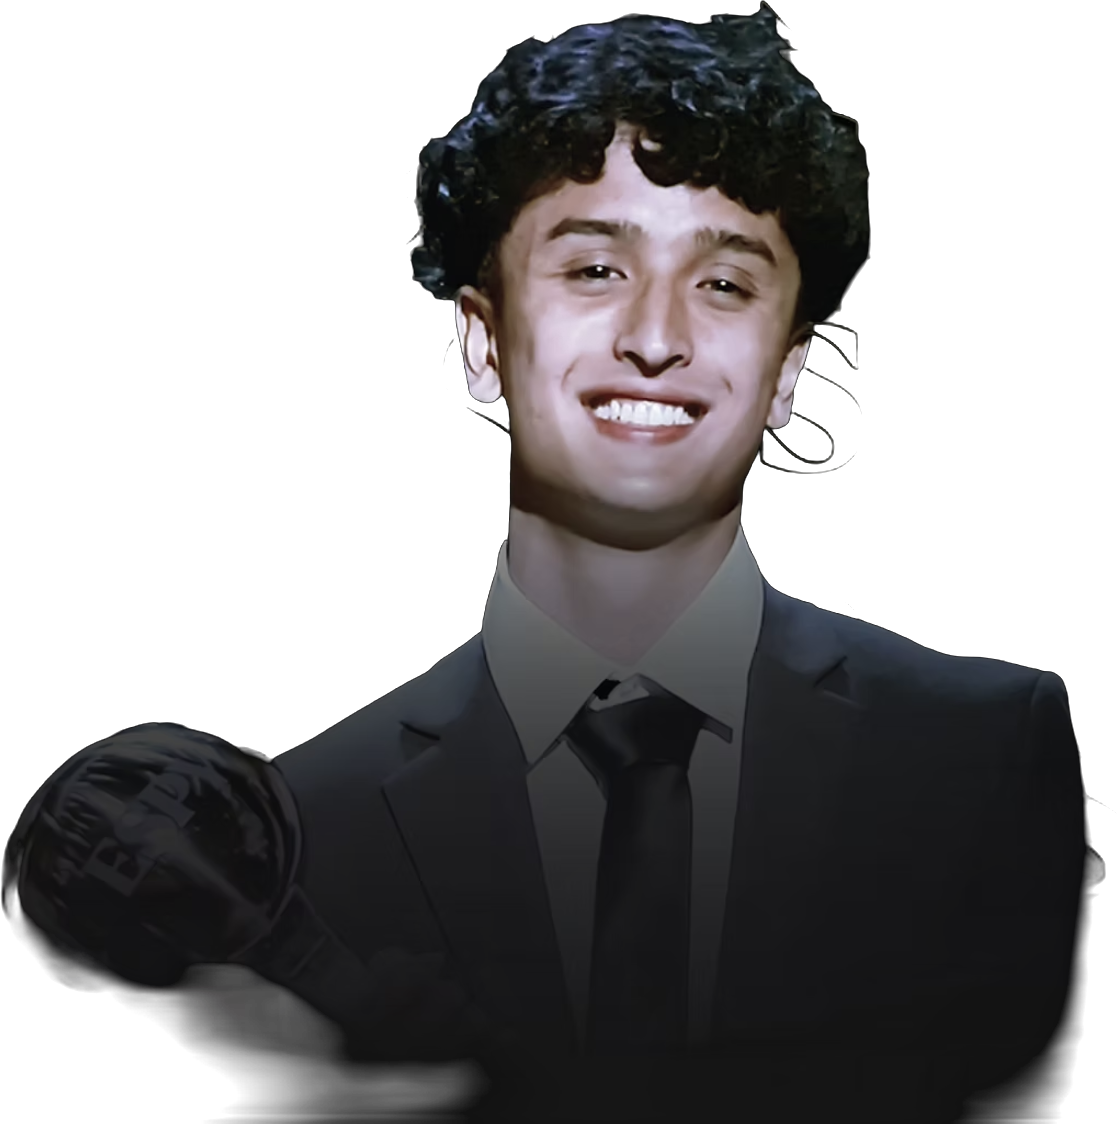
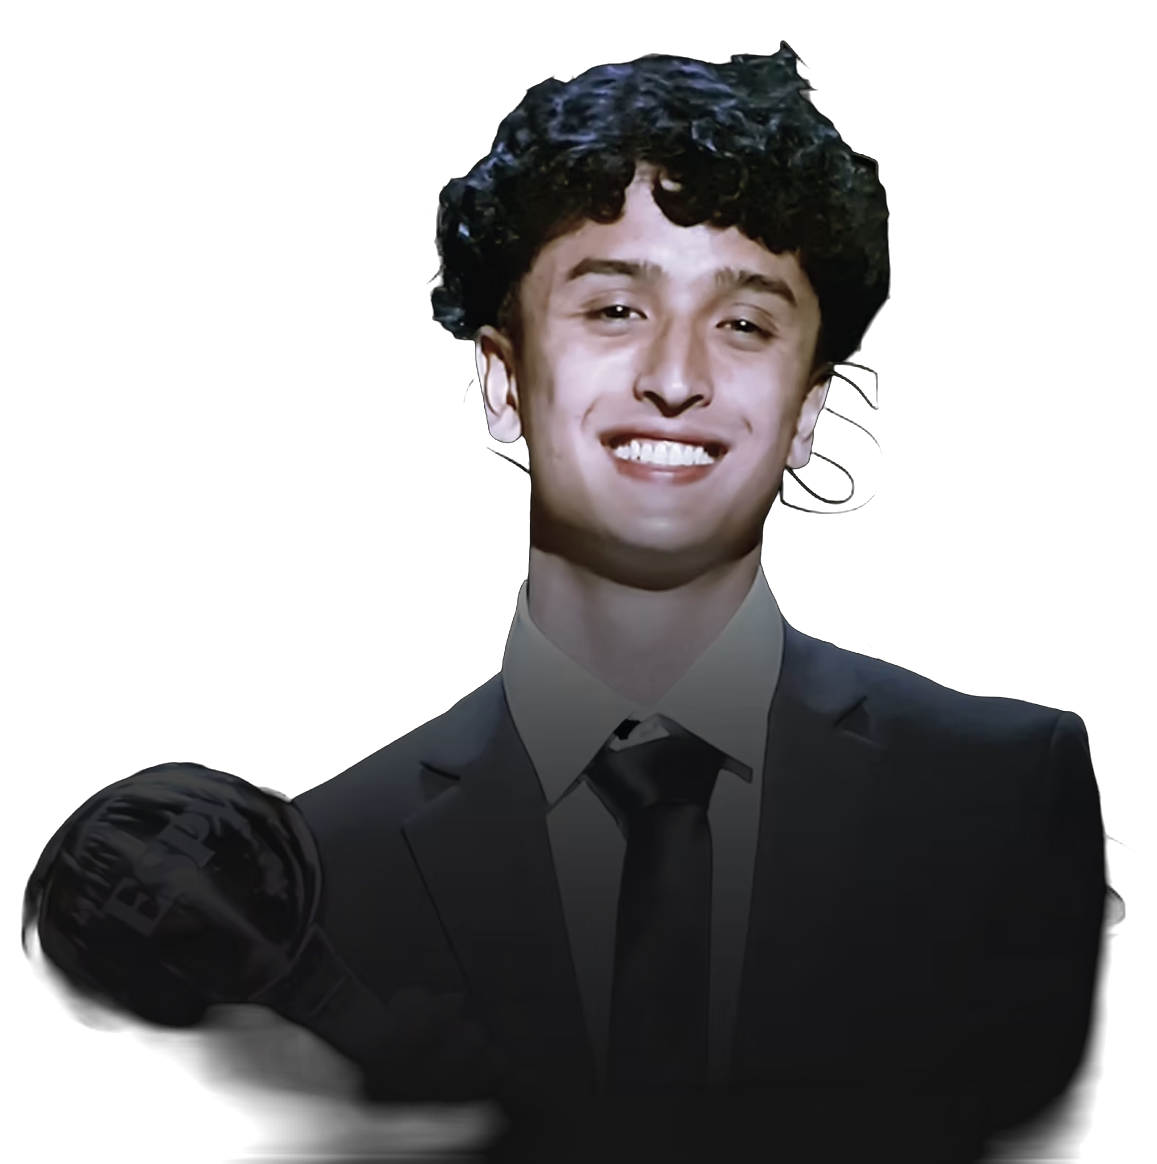
Rework ESPY section, fix photo crop, match watermark to official ESPYS font/gradient, update CTA text

diff --git a/index.html b/index.html
@@ -6,8 +6,8 @@
 <title>Bigger Than Sports | Youth-Led Nonprofit Fighting Educational Inequality Through Sports</title>
 <meta name="description" content="Bigger Than Sports is a youth-led nonprofit dedicated to fighting educational inequality through the power of sports, equipping student athletes with mentorship and a plan for life after the game.">
 <link rel="preconnect" href="https://fonts.googleapis.com">
-<link href="https://fonts.googleapis.com/css2?family=Anton&family=Playfair+Display:wght@700&family=Poppins:wght@400;500;600;700&display=swap" rel="stylesheet">
-<link rel="stylesheet" href="style.css?v=20260921g">
+<link href="https://fonts.googleapis.com/css2?family=Anton&family=Arvo:wght@700&family=Poppins:wght@400;500;600;700&display=swap" rel="stylesheet">
+<link rel="stylesheet" href="style.css?v=20260921h">
 <link rel="icon" href="logo.png">
 </head>
 <body>
@@ -67,20 +67,25 @@
 
 <!-- SECTION 3B: ESPY'S STATEMENT -->
 <section class="espy-section" id="espy">
-  <div class="espy-watermark" aria-hidden="true">
-    <div class="espy-watermark-row">ESPYS ESPYS ESPYS ESPYS ESPYS ESPYS ESPYS ESPYS ESPYS ESPYS ESPYS ESPYS ESPYS ESPYS</div>
-    <div class="espy-watermark-row">ESPYS ESPYS ESPYS ESPYS ESPYS ESPYS ESPYS ESPYS ESPYS ESPYS ESPYS ESPYS ESPYS ESPYS</div>
-    <div class="espy-watermark-row">ESPYS ESPYS ESPYS ESPYS ESPYS ESPYS ESPYS ESPYS ESPYS ESPYS ESPYS ESPYS ESPYS ESPYS</div>
-    <div class="espy-watermark-row">ESPYS ESPYS ESPYS ESPYS ESPYS ESPYS ESPYS ESPYS ESPYS ESPYS ESPYS ESPYS ESPYS ESPYS</div>
-    <div class="espy-watermark-row">ESPYS ESPYS ESPYS ESPYS ESPYS ESPYS ESPYS ESPYS ESPYS ESPYS ESPYS ESPYS ESPYS ESPYS</div>
-    <div class="espy-watermark-row">ESPYS ESPYS ESPYS ESPYS ESPYS ESPYS ESPYS ESPYS ESPYS ESPYS ESPYS ESPYS ESPYS ESPYS</div>
-  </div>
+  <svg class="espy-watermark" aria-hidden="true" preserveAspectRatio="xMidYMid slice" xmlns="http://www.w3.org/2000/svg">
+    <defs>
+      <linearGradient id="espyGoldGradient" x1="0%" y1="0%" x2="100%" y2="100%">
+        <stop offset="0%" stop-color="#f0e2b6"/>
+        <stop offset="50%" stop-color="#c9a876"/>
+        <stop offset="100%" stop-color="#8a6a3f"/>
+      </linearGradient>
+      <pattern id="espyTilePattern" x="0" y="0" width="360" height="170" patternUnits="userSpaceOnUse">
+        <text x="15" y="120" font-family="'Arvo', Georgia, 'Times New Roman', serif" font-weight="700" font-size="82" letter-spacing="1" fill="none" stroke="url(#espyGoldGradient)" stroke-width="1.3">ESPYS</text>
+      </pattern>
+    </defs>
+    <rect width="100%" height="100%" fill="url(#espyTilePattern)"/>
+  </svg>
   <div class="espy-inner">
     <div class="espy-content">
       <p class="espy-eyebrow">Bigger Than Sports is an</p>
       <h2 class="espy-headline">ESPY<br>Winner</h2>
       <p class="espy-body">We were recognized with the Billie Jean King Youth Leadership Award at the 2025 ESPYs.</p>
-      <a href="#what-we-do" class="btn espy-btn">Learn More About What We Do</a>
+      <a href="#what-we-do" class="btn espy-btn">Our ESPY&reg; Award-Winning impact</a>
     </div>
     <div class="espy-media">
       <img src="espy-award-photo.png" alt="Bigger Than Sports founder accepting the Billie Jean King Youth Leadership Award at the 2025 ESPYs">
@@ -138,7 +143,7 @@
       <div class="journey-media"><img src="event-action2.jpg" alt="Bigger Than Sports students and mentors at a community event"></div>
       <div class="journey-content">
         <span class="journey-step">04</span>
-        <h4>College Visits, Guest Speakers, Field Trips &amp; Community Events</h4>
+        <h4>Real-World Exposure</h4>
         <p>A plan only sticks if a student can picture themselves living it. Throughout the program, we bring in industry professionals as guest speakers, take students onto college campuses and field trips, and invite them to every community event we run.</p>
       </div>
     </div>

diff --git a/style.css b/style.css
@@ -262,26 +262,18 @@ section{ padding: 80px 24px; }
   overflow: hidden;
   background: var(--black);
   color: var(--white);
+  padding: 60px 24px;
 }
 .espy-watermark{
   position: absolute;
   inset: 0;
   z-index: 0;
-  display: flex;
-  flex-direction: column;
-  justify-content: space-evenly;
+  width: 100%;
+  height: 100%;
+  opacity: 0.65;
   pointer-events: none;
   user-select: none;
 }
-.espy-watermark-row{
-  font-family: 'Playfair Display', Georgia, 'Times New Roman', serif;
-  font-size: 5rem;
-  white-space: nowrap;
-  letter-spacing: 0.08em;
-  color: transparent;
-  -webkit-text-stroke: 1px rgba(255, 255, 255, 0.14);
-}
-.espy-watermark-row:nth-child(even){ transform: translateX(-2.5rem); }
 .espy-inner{
   position: relative;
   z-index: 1;
@@ -302,8 +294,8 @@ section{ padding: 80px 24px; }
   margin-bottom: 8px;
 }
 .espy-headline{
-  font-size: clamp(2.4rem, 6vw, 4rem);
-  line-height: 1.05;
+  font-size: clamp(3.4rem, 9vw, 6rem);
+  line-height: 1.02;
   margin-bottom: 20px;
 }
 .espy-body{
@@ -311,16 +303,16 @@ section{ padding: 80px 24px; }
   color: var(--cream);
   max-width: 480px;
 }
-.espy-media img{ 
+.espy-media img{
   width: 100%;
   height: auto;
-  max-height: 480px;
+  max-height: 440px;
   object-fit: contain;
   display: block;
   margin: 0 auto;
 }
 @media (max-width: 800px){
-  .espy-media img{ max-height: 340px; }
+  .espy-media img{ max-height: 320px; }
 }
 
 .trust-seal{ max-width: 160px; margin: 24px auto 0; }
